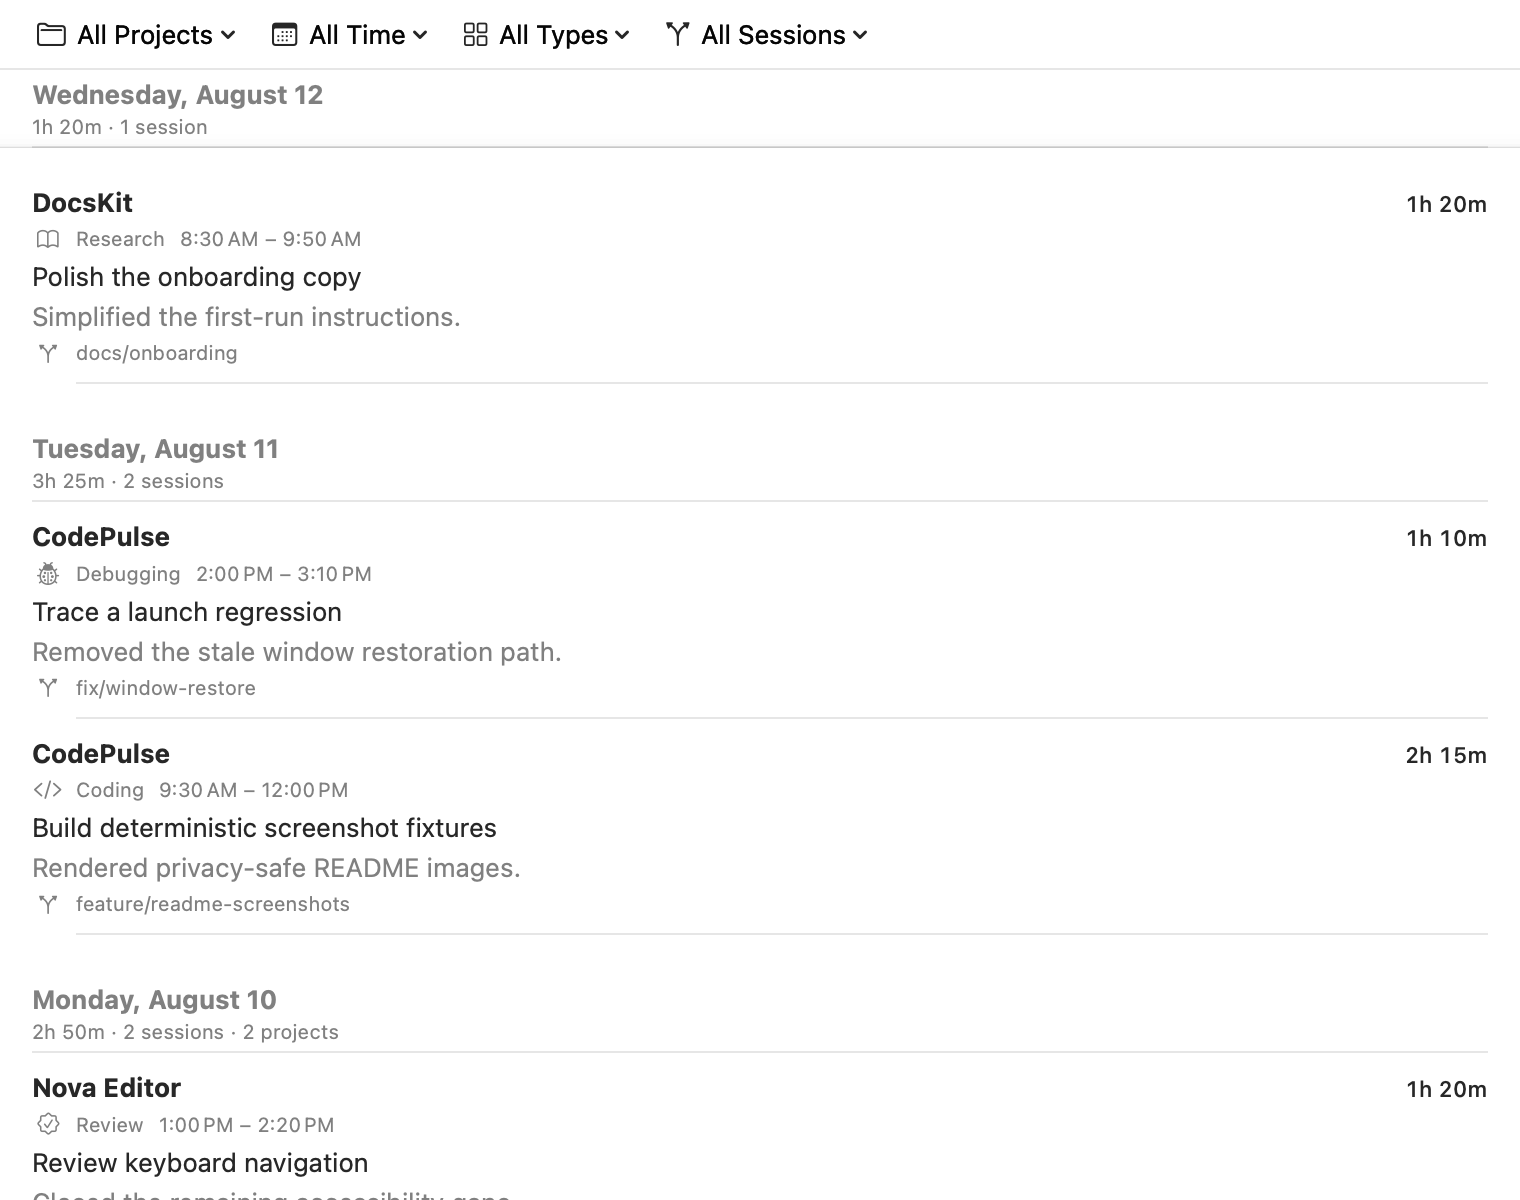
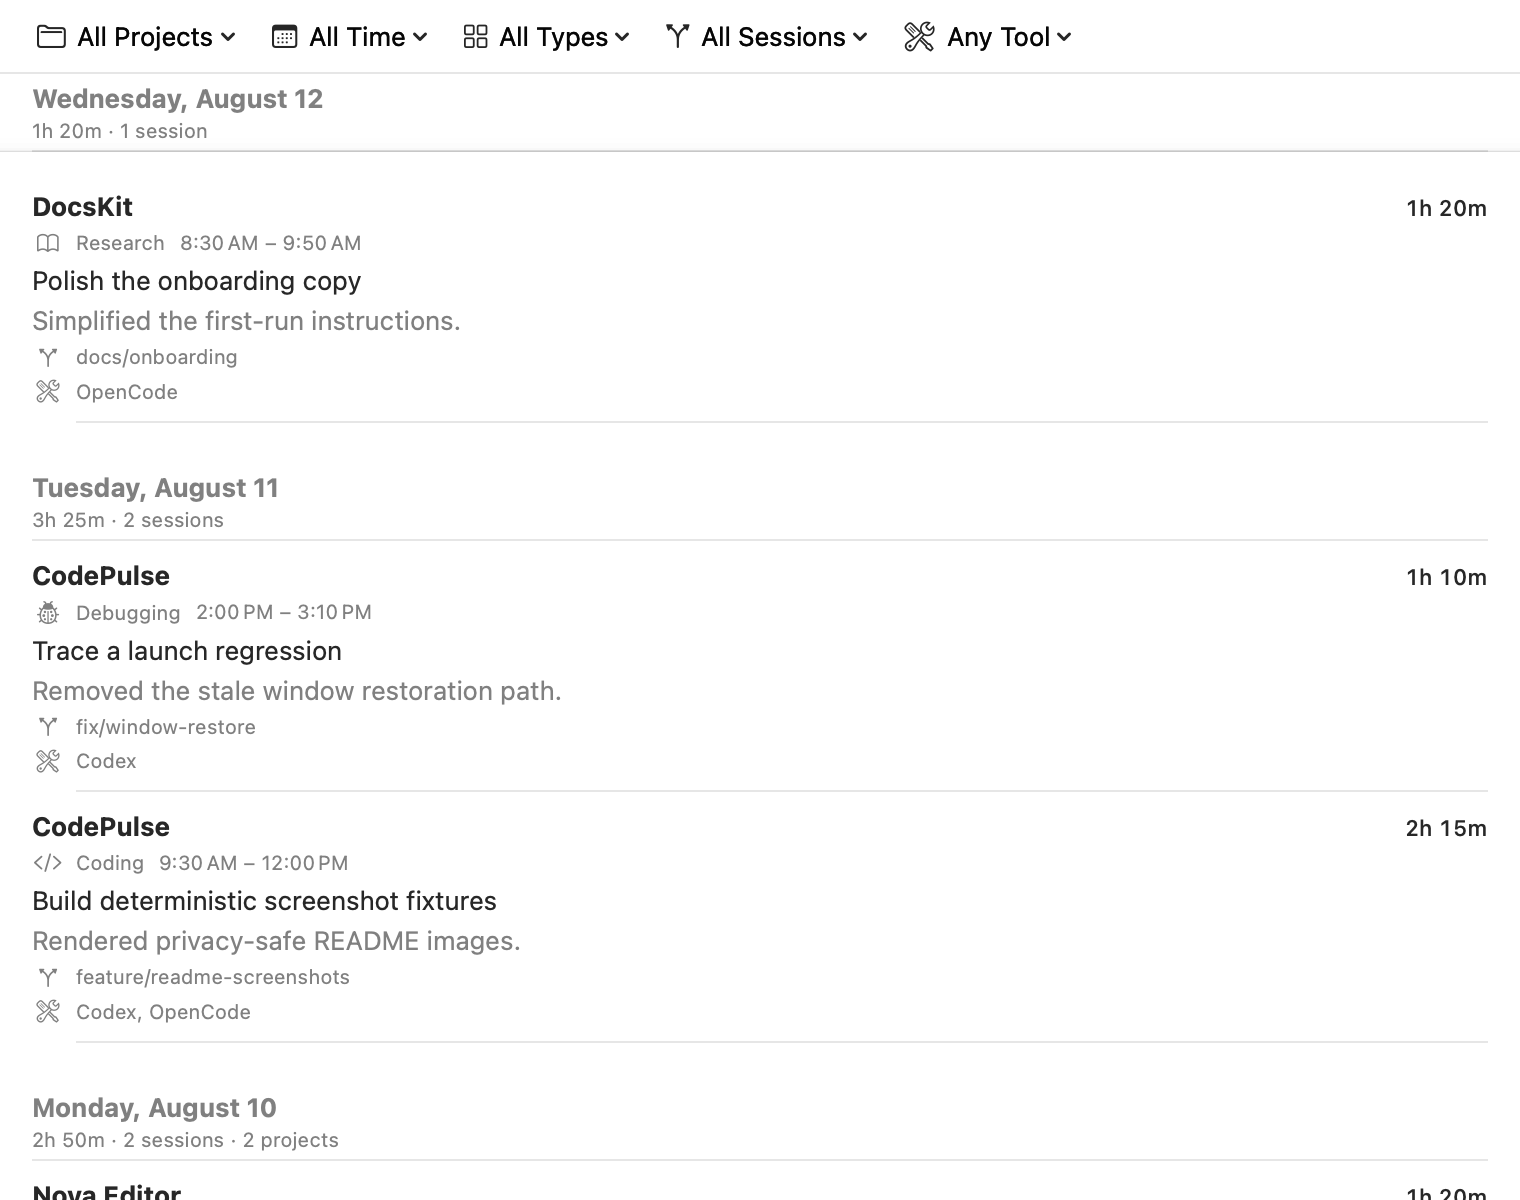
Update CodePulse v0.7 documentation

diff --git a/README.md b/README.md
@@ -25,7 +25,9 @@ developer-tool metadata.
   optionally their current pull request when the repository has a GitHub remote.
 - Optionally records that Codex and/or OpenCode participated in a selected
   project's session using only local lifecycle metadata.
-- Summarizes active time by day, project, and work type with native Swift Charts.
+- Provides richer local Insights for active time, sessions, projects, work types,
+  developer-tool participation, Git activity, and GitHub context with native
+  Swift Charts.
 - Exports a versioned JSON backup of local CodePulse state.
 
 ## Download and install
@@ -51,8 +53,8 @@ or allow the automatic update check.
 2. Optionally choose a project and work type, then describe the session goal.
 3. Start the session and pause or resume it as needed.
 4. Finish the session, record an optional outcome, and save it to History.
-5. Open History to search or edit saved sessions, or open Insights to review
-   local activity.
+5. Open History to search, filter, or edit saved sessions, or open Insights to
+   review local activity and context-derived summaries.
 6. If desired, open **Settings → Integrations** to enable Codex or OpenCode
    context enrichment. Integrations are optional and never control the timer.
 
@@ -67,7 +69,7 @@ folder you select, allowing it to read local Git metadata for that project.
 
 ### Insights
 
-![CodePulse Insights showing a weekly activity chart and project totals](docs/images/insights.png)
+![CodePulse Insights showing local summary metrics, activity, work types, and project totals](docs/images/insights.png)
 
 ## Local data and privacy
 
@@ -152,9 +154,18 @@ when the canonical working directory is that project's folder or a child
 directory. No Project sessions and unrelated projects are ignored. Integration
 events never start, pause, resume, or finish a CodePulse session.
 
-History filters before grouping sessions by day. Insights uses the user's local
-calendar and apportions active time across day and week boundaries while
-excluding pauses.
+CodePulse 0.7 adds Session Intelligence to Insights. It derives active-time
+metrics from the existing local session history, supports calendar and rolling
+timeframes plus project filtering, and shows participation-based developer-tool
+counts, optional model/profile labels, neutral Git Activity totals, and
+historical GitHub repository and pull-request context. These are local derived
+views only: CodePulse does not add an analytics database, upload analytics, or
+measure productivity.
+
+History filters before grouping sessions by day and searches existing project,
+journal, GitHub, and developer-tool metadata. Insights uses the user's local
+calendar, apportions active time across day and week boundaries while excluding
+pauses, and keeps historical GitHub snapshots unchanged.
 
 ## Tests
 

diff --git a/docs/releasing.md b/docs/releasing.md
@@ -144,12 +144,17 @@ expected for this distribution model and is not a corrupt-DMG indication.
 
 To install the initial Sparkle-capable build:
 
-1. Open the DMG.
-2. Drag `CodePulse.app` to `Applications`.
-3. Try opening CodePulse from Finder.
-4. If macOS blocks the first launch, open System Settings → Privacy & Security
-   and use the available **Open Anyway** or **Allow** action for CodePulse,
-   then confirm the Finder open action.
+1. Drag `CodePulse.app` into `Applications`.
+2. Attempt to open CodePulse normally.
+3. macOS may show the verification warning.
+4. Click **Done** on that warning.
+5. Open **System Settings**.
+6. Open **Privacy & Security**.
+7. Scroll to the **Security** section.
+8. Find the blocked CodePulse message.
+9. Choose **Open Anyway**.
+10. Authenticate if macOS requests it.
+11. Confirm launching CodePulse.
 
 Do not disable Gatekeeper globally. The normal Finder context-menu **Open**
 flow is also an appropriate way to make the explicit first-launch decision.

diff --git a/PRIVACY.md b/PRIVACY.md
@@ -74,6 +74,15 @@ CodePulse does not store GitHub credentials, ask for a Personal Access Token, or
 perform GitHub mutations. Downloaded updates are authenticated with an Ed25519
 signature before installation.
 
+Insights in CodePulse 0.7 are derived in memory from the local session records
+already described above. Timeframe totals, counts, project/work-type
+breakdowns, developer-tool participation, Git totals, and GitHub repository/PR
+aggregates are not stored in a separate analytics database or uploaded. GitHub
+context shown for a historical session is the snapshot saved with that session;
+CodePulse does not poll GitHub to rewrite historical analytics. Git Activity is
+descriptive metadata only and is not converted into a productivity or efficiency
+score.
+
 ## Backups
 
 Backup export creates a versioned JSON file at a location chosen by the user.
